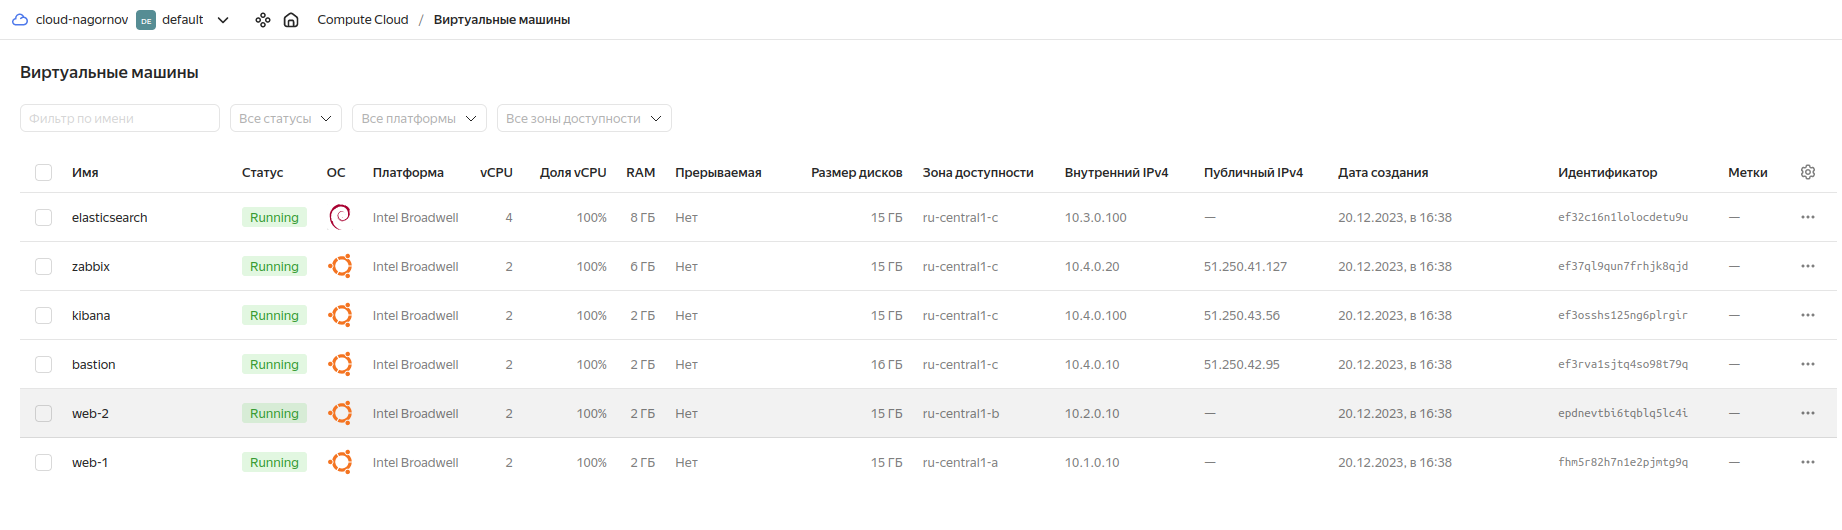
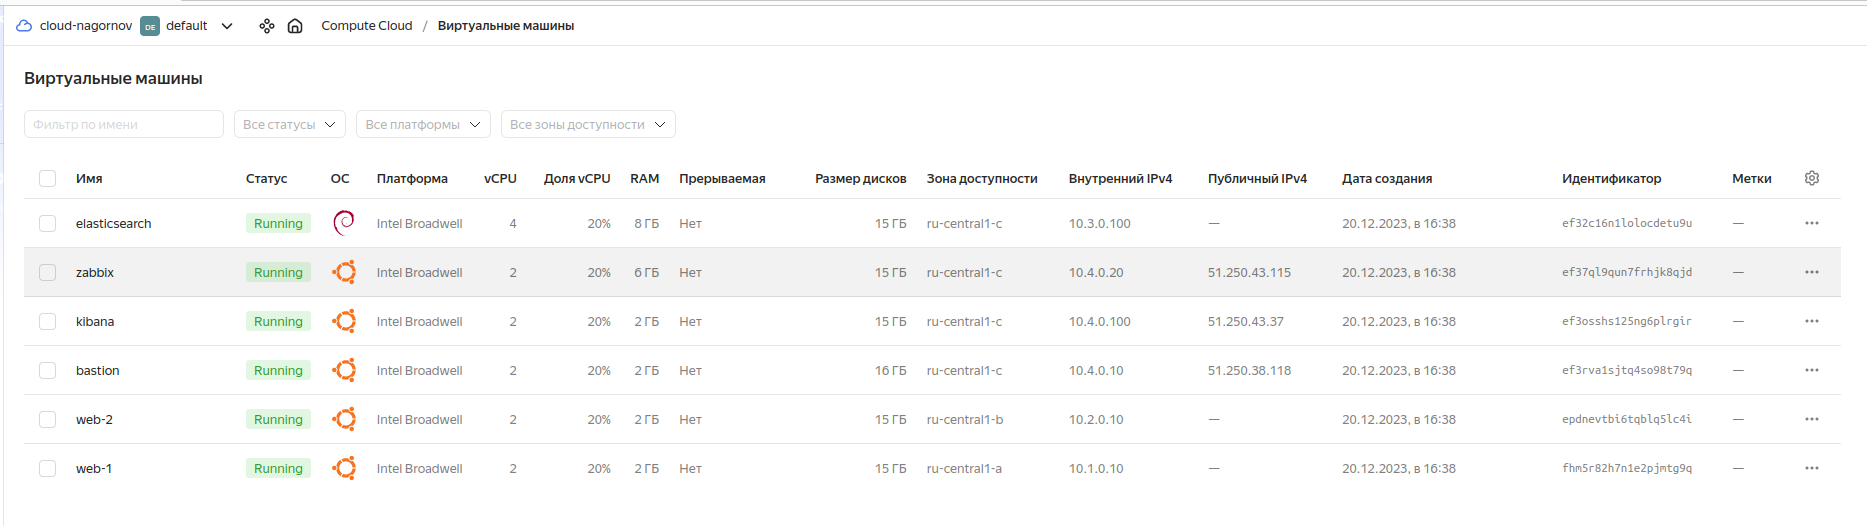
4

diff --git a/README.md b/README.md
@@ -51,7 +51,7 @@ Snapshot
 Установка Kibana
 <img src = "files/7.png" width = 100%>
 
-Kibana доступна по сслылке: http://51.250.43.56:5601
+Kibana доступна по сслылке: http://51.250.43.37:5601
 <img src = "files/kibana.png" width = 100%>
 
 Далее установка Zabbix для обеспечения мониторинга: 
@@ -65,7 +65,7 @@ Kibana доступна по сслылке: http://51.250.43.56:5601
 <img src = "files/zabbixhosts.png" width = 100%>
 
 Настроил dashboard согласно заданию, Zabbix доступен по ссылке:  
-http://51.250.41.127:8080
+http://51.250.43.115:8080
 <img src = "files/zabbixdash.png" width = 100%>
 
 На этом всё, спасибо за обучение!
